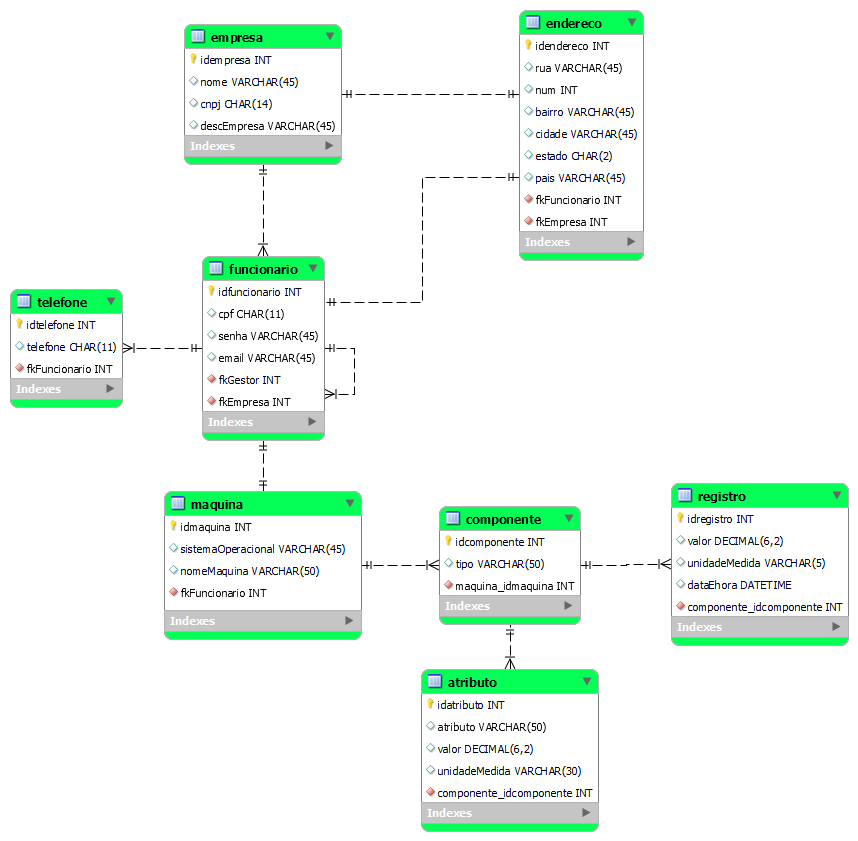
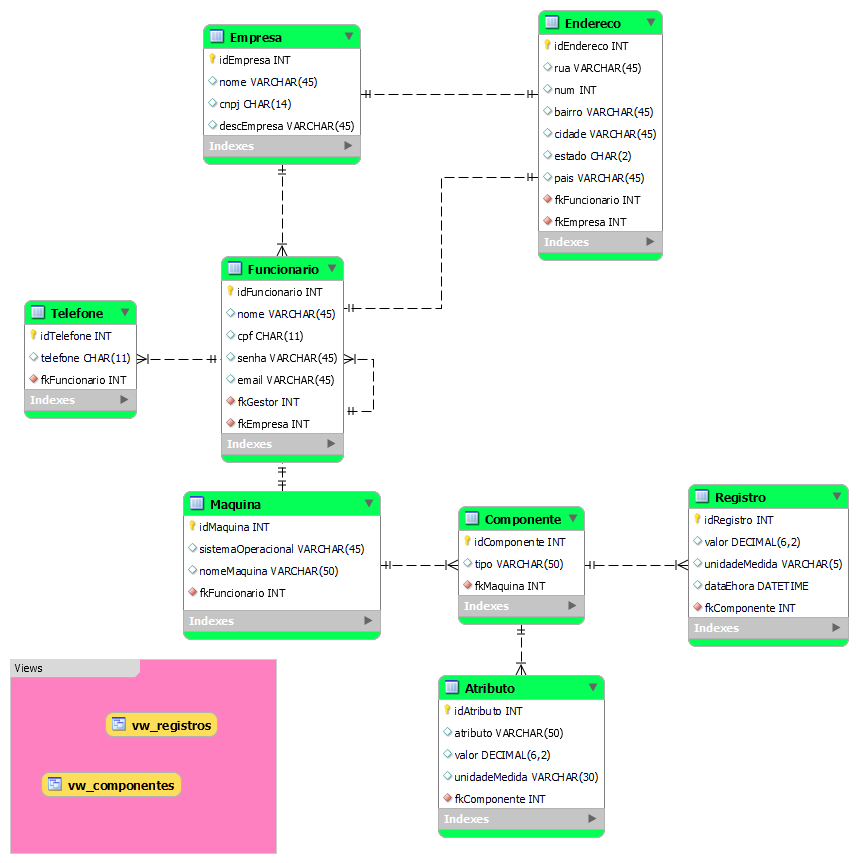
Modelagem e Views

diff --git a/api-python/main.py b/api-python/main.py
@@ -1,8 +1,9 @@
 import psutil
 import pymysql
 from time import sleep
-
-def registro():
+    
+contador = 1
+while True:
     conexao = pymysql.connect(db='BDpoint', user='root', passwd='1234', port=3307)
     cursor = conexao.cursor()
     
@@ -11,6 +12,6 @@ def registro():
 
     conexao.close()
 
-while True:
-    registro()
+    print(f'Registro {contador} inserido!')
+    contador += 1
     sleep(1)
